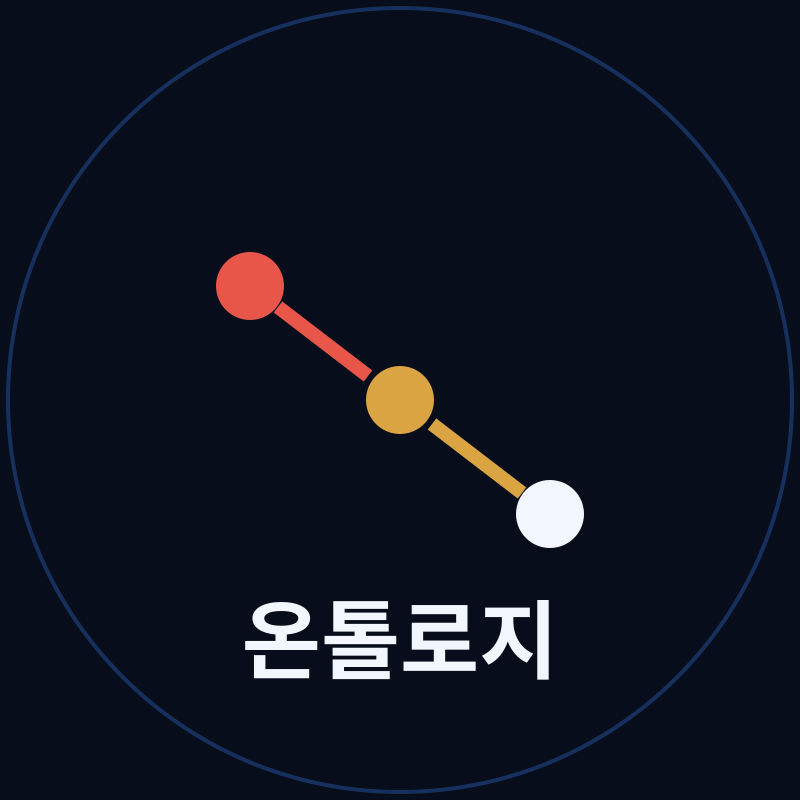
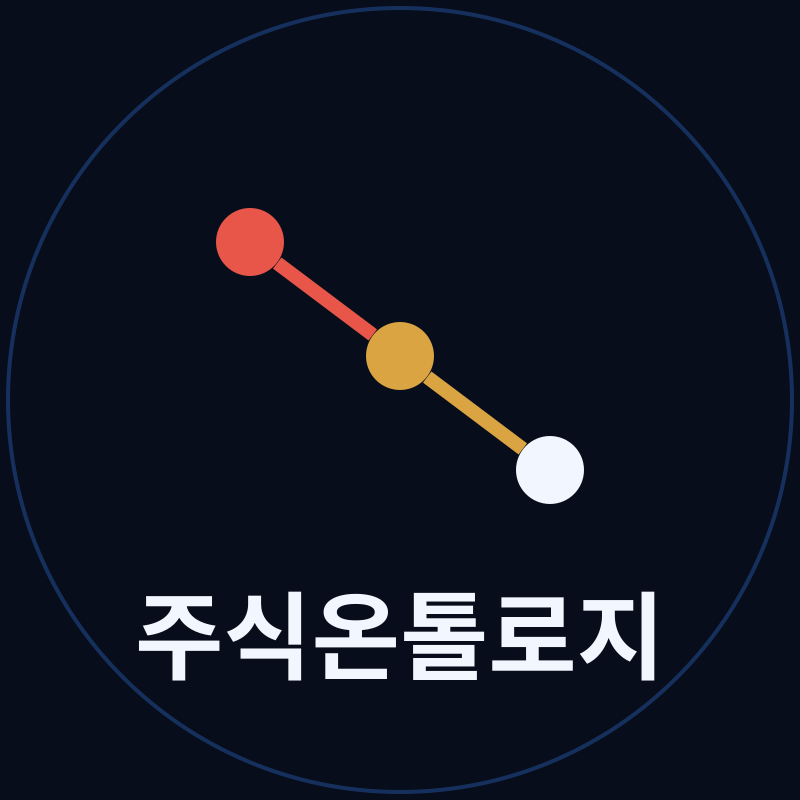
feat: 채널명을 주식온톨로지로 — 배너·로고 다시 뽑음
"스톡"은 외래어라 한 번 더 생각해야 하고 "주식"은 바로 읽힌다. stockontology
의 우리말 그대로라 사이트와의 연결도 유지된다. 핸들은 라틴 문자로 두고, 배너
위쪽의 STOCKONTOLOGY 자간 로고가 한글 이름과 도메인을 이어 준다.

★프로필 글자 크기를 고쳤다★ 유튜브는 아바타를 대부분 48px 로 보여주는데,
72pt 로 넣은 이름이 줄이면 4px 높이가 되어 얼룩으로 보였다. 실제로 축소해
눈으로 확인하고 96pt 로 키웠다. 지금은 48px 에서도 읽힌다. 글자 없이 마크만
있는 판(profile-mark.png)도 함께 만들어 뒀다.

확인: 배너 안전영역을 잘라 눈으로 확인 — 잘림 없음. 프로필 두 판을 48px 로
줄여 나란히 놓고 가독성 확인. 네 파일 모두 목표 픽셀로 출력.

Claude-Session: https://claude.ai/code/session_01KQ8Sjpr2xoUGwfY1uuEu3p

Changed region(s): [[0.1562, 0.7188, 0.8438, 0.875], [0.25, 0.25, 0.75, 0.6875]]

diff --git a/public/brand/stockontology/BRANDING.md b/public/brand/stockontology/BRANDING.md
@@ -1,4 +1,4 @@
-# 스톡온톨로지 채널 브랜딩 (ch2 재개편안)
+# 주식온톨로지 채널 브랜딩 (ch2 재개편안)
 
 기존 "쓸모의 발견"(구독자 0 · 총 조회수 9 · 영상 6편)을 갈아엎어 쓴다.
 지킬 구독자가 없어 리브랜딩 비용이 사실상 0이므로, 채널을 새로 파지 않고 이름·핸들·이미지만 바꾼다.
@@ -7,17 +7,17 @@
 
 | 항목 | 값 |
 |---|---|
-| 채널명 | **스톡온톨로지** |
+| 채널명 | **주식온톨로지** |
 | 핸들 | `@stockontology` (선점됐으면 `@stockontology_cc`) |
 | 사이트 | https://stockontology.cc |
 
-★왜 사이트명 그대로인가★ 영상·사이트·검색어가 한 단어로 묶여야 유입이 새지 않는다.
-영상에서 "스톡온톨로지"를 들은 사람이 검색하면 채널과 사이트가 같이 나와야 한다.
-"온톨로지 데일리" 같은 부제는 채널명이 아니라 재생목록 이름으로 쓴다.
+★"스톡"이 아니라 "주식"인 이유★ stockontology 의 우리말 그대로라 사이트와의 연결은
+유지되면서, 외래어 한 단어를 덜 거친다. "스톡"은 읽고 한 번 더 생각해야 하는데 "주식"은
+바로 읽힌다. 검색에서도 훨씬 흔히 쓰이는 낱말이다.
+핸들은 라틴 문자로 두어 사이트 주소와 맞춘다. 배너에는 위쪽에 `STOCKONTOLOGY` 를
+자간을 벌려 얹어, 한글 이름과 영문 도메인이 한 화면에서 이어지게 했다.
 
-대안(원하면 교체 지점은 이 표뿐):
-- `온톨로지 투자실험실` — 실험/기록 성격이 더 드러남. 다만 사이트명과 어긋남.
-- `거시에서 종목까지` — 검색어 친화적이나 브랜드가 안 쌓임.
+"온톨로지 데일리" 같은 부제는 채널명이 아니라 재생목록 이름으로 쓴다.
 
 ## 2. 색·글꼴 (사이트와 통일)
 
@@ -39,10 +39,15 @@
 | `banner.png` | 2560×1440 | branding 워크플로로 API 업로드 가능 |
 | `watermark.png` | 150×150 | 〃 |
 | `profile.png` | 800×800 | **API 엔드포인트 없음 — 스튜디오에서 수동 업로드** |
+| `profile-mark.png` | 800×800 | 글자 없이 마크만 있는 대안 |
 | `description.txt` | 429자 | `apply_description=true` 일 때 적용 |
 
 배너는 모든 기기에서 보이는 안전영역(1546×423) 안에 글자를 전부 넣었고, 바깥에는
 노드 그래프 장식만 두어 데스크톱에서만 넓게 보이게 했다. 재생성: `node scripts/make-brand-stockontology.mjs`
+
+★프로필 글자 크기★ 유튜브는 아바타를 대부분 48px 로 보여준다. 처음 72pt 로 넣었더니
+줄였을 때 글자가 아니라 얼룩이 됐다(축소해서 눈으로 확인). 96pt 로 키우니 48px 에서도
+읽힌다. 이 파일을 고칠 때 글자 크기를 줄이지 말 것 — 800px 화면에서 커 보이는 게 정상이다.
 
 ## 4. 채널 키워드 (스튜디오 → 설정 → 채널 → 기본 정보)
 
